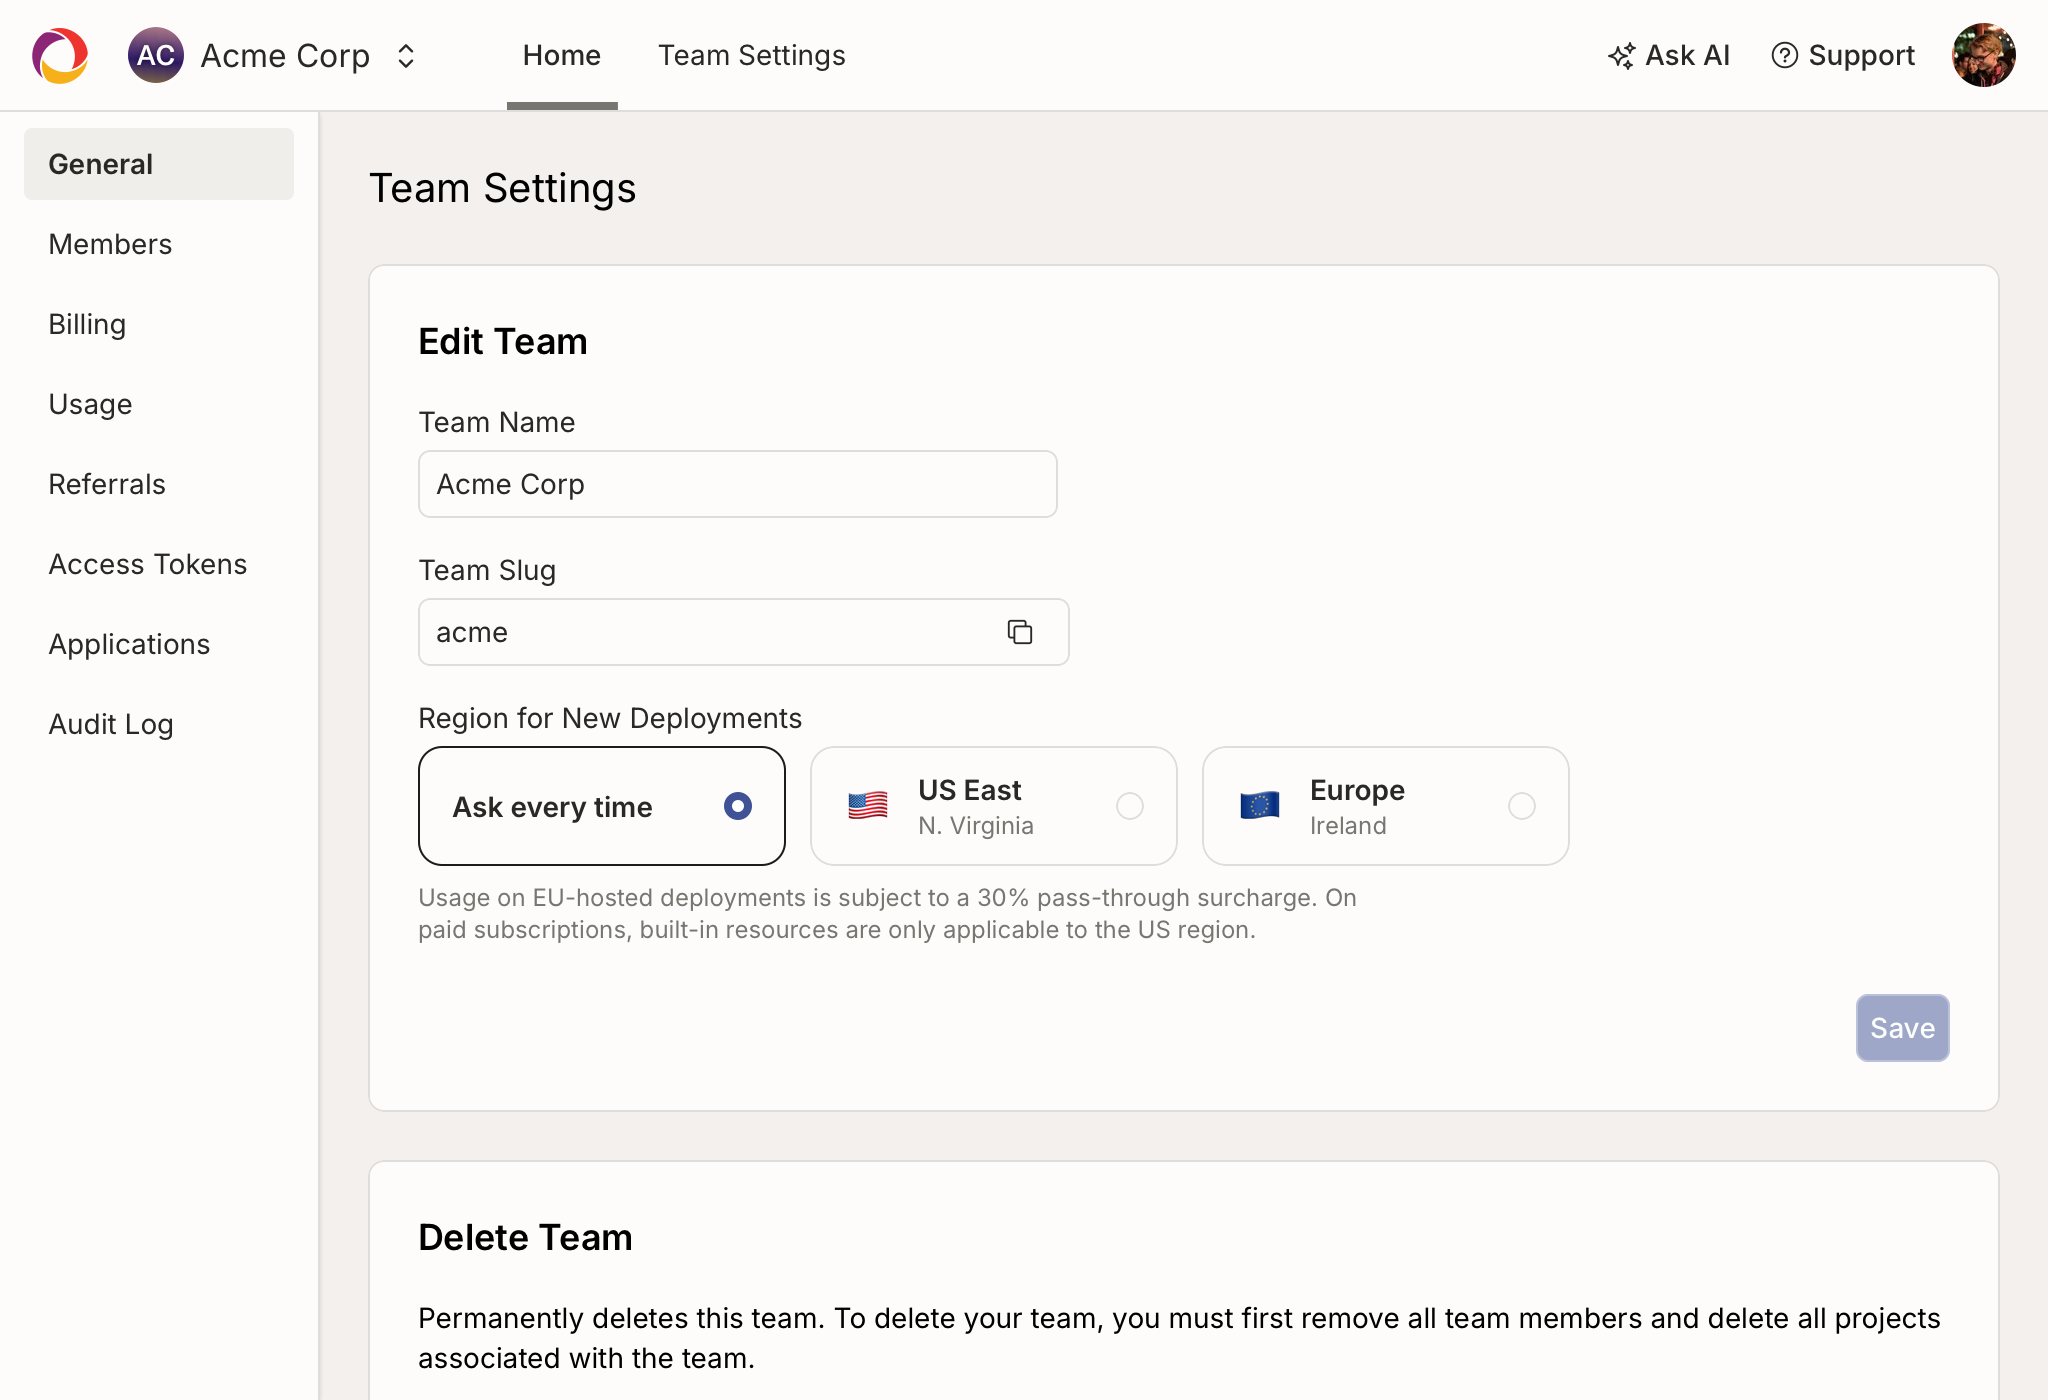
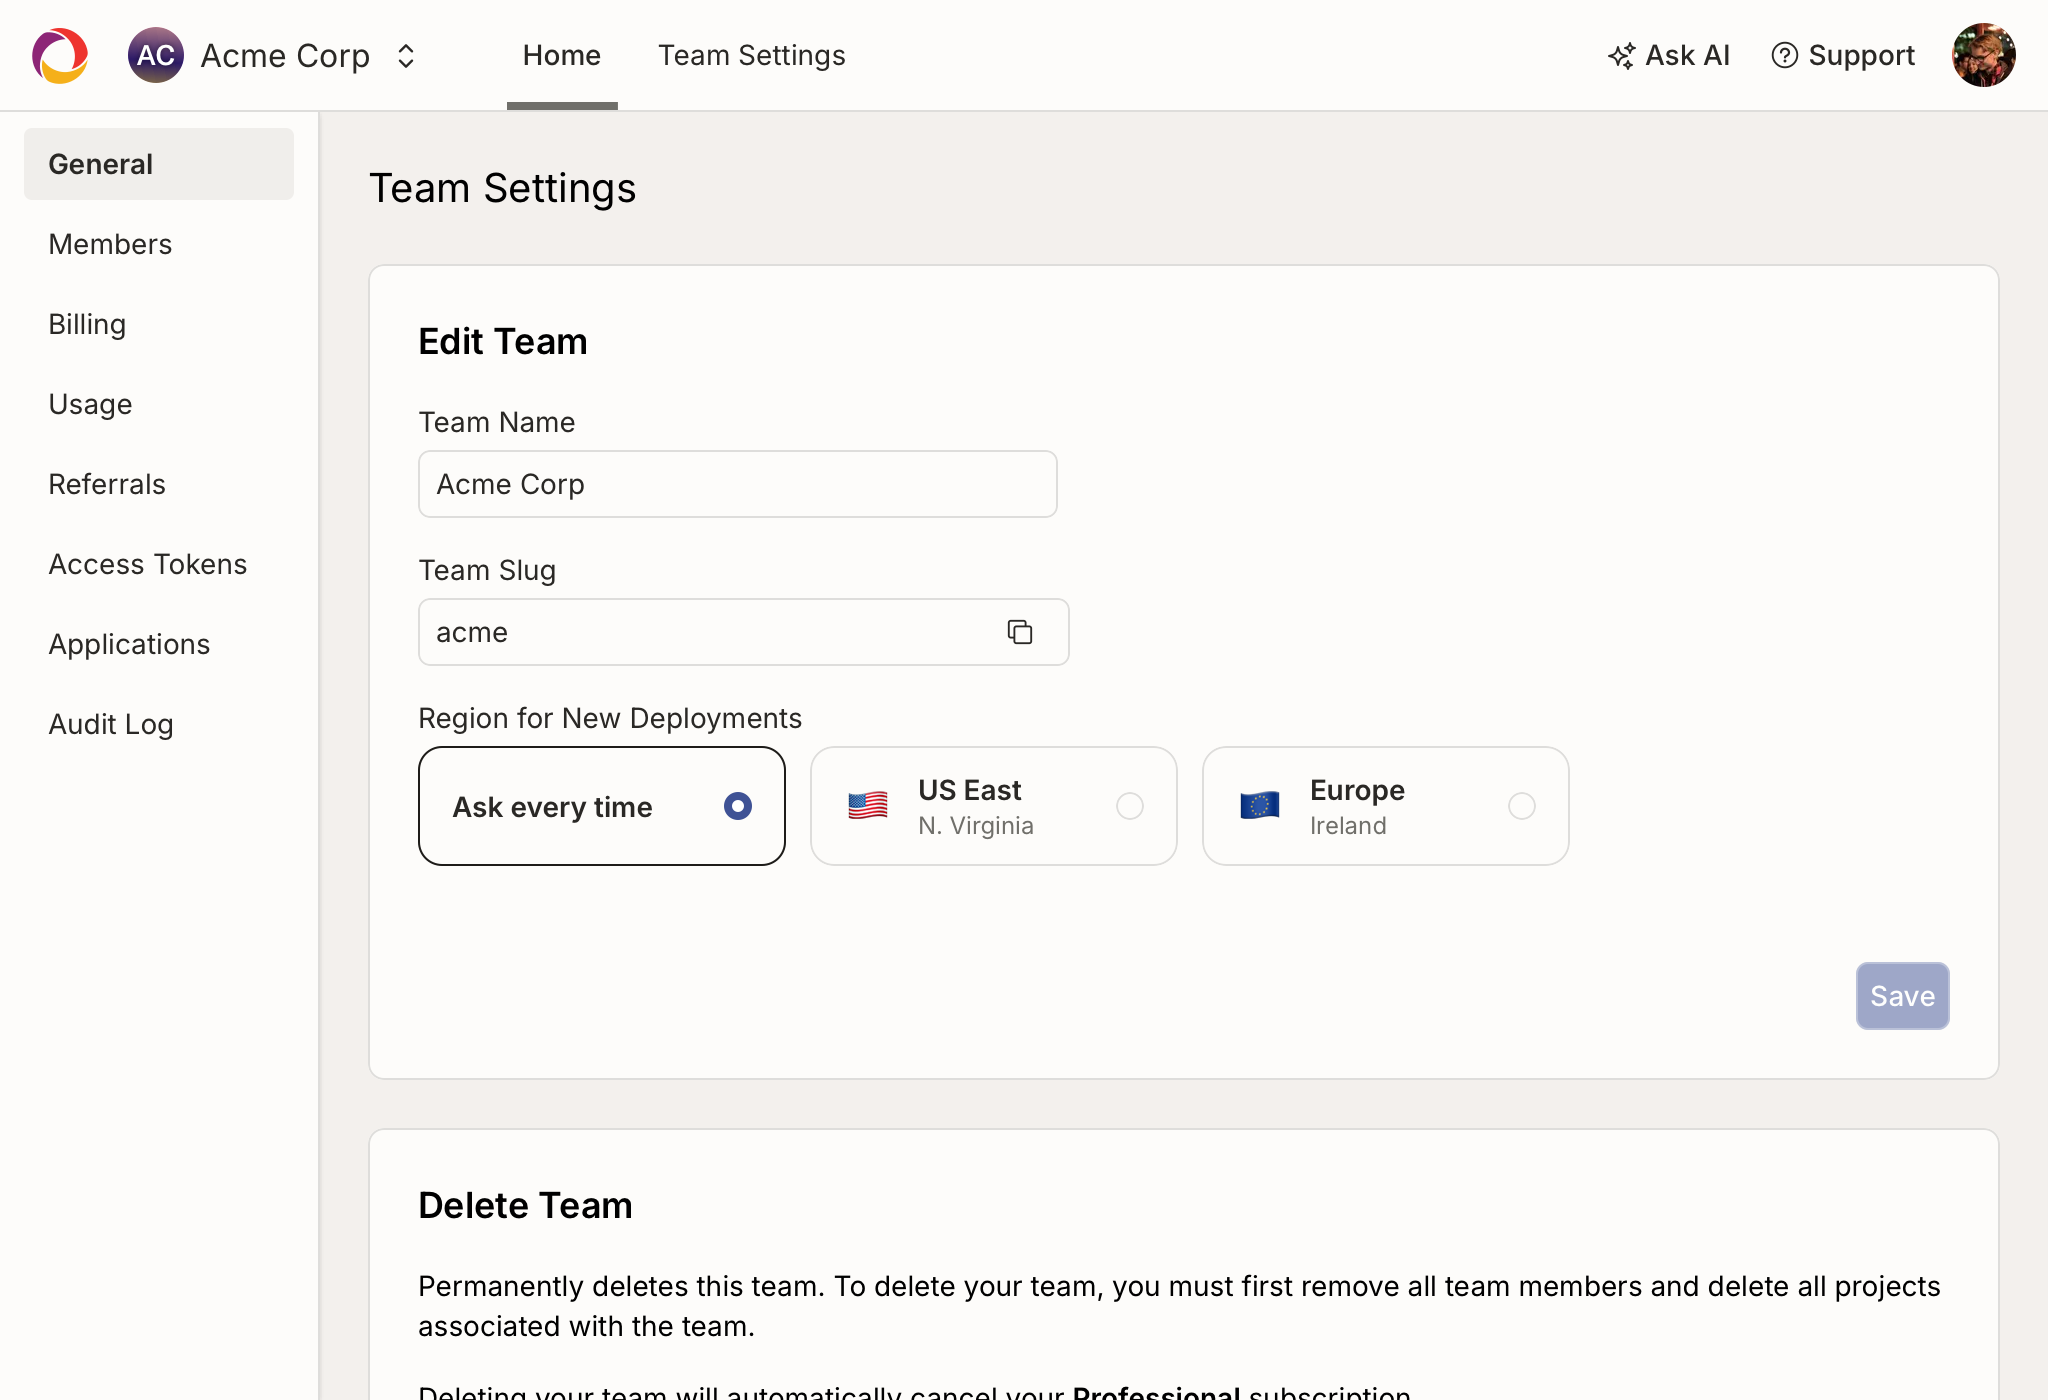
dashboard: fix duplicate EU pricing warning (#50595)
GitOrigin-RevId: 4fd7acfac6072beb7fa563899eb60af88031442c

Changed region(s): [[0.1875, 0.8293, 0.9375, 1.0], [0.2188, 0.6143, 0.625, 0.6757], [0.9062, 0.6757, 0.9688, 0.7679]]

diff --git a/npm-packages/dashboard/src/components/provisionDeployment/ProvisionDeploymentForm.tsx b/npm-packages/dashboard/src/components/provisionDeployment/ProvisionDeploymentForm.tsx
@@ -26,6 +26,7 @@ import { GlobeIcon } from "@radix-ui/react-icons";
 import { useIsomorphicLayoutEffect } from "react-use";
 import { Region, sortRegions } from "elements/Region";
 import { ProvisioningLoading } from "./ProvisioningLoading";
+import { EUPricingWarning } from "elements/EUPricingWarning";
 
 const REGION_COORDINATES: Record<RegionName, [number, number]> = {
   "aws-us-east-1": [38.9072, -77.0369], // Washington DC area (US East)
@@ -222,12 +223,7 @@ export function ProvisionDeploymentFormInner({
                       ))}
                 </div>
               </RadioGroup>
-              {selectedRegion && selectedRegion !== "aws-us-east-1" && (
-                <p className="mt-2 text-xs text-content-warning">
-                  No included limits — all usage billed on-demand + 30% regional
-                  surcharge
-                </p>
-              )}
+              <EUPricingWarning show={selectedRegion === "aws-eu-west-1"} />
             </Fieldset>
 
             <Tooltip
@@ -269,12 +265,6 @@ export function ProvisionDeploymentFormInner({
                 Create deployment
               </Button>
             </div>
-
-            <p className="text-xs text-content-secondary">
-              Usage on EU-hosted deployments is subject to a 30% pass-through
-              surcharge. On paid subscriptions, built-in resources are only
-              applicable to the US region.
-            </p>
           </form>
         </Sheet>
       </div>

diff --git a/npm-packages/dashboard/src/components/teamSettings/DefaultRegionSelector.tsx b/npm-packages/dashboard/src/components/teamSettings/DefaultRegionSelector.tsx
@@ -1,7 +1,11 @@
 import { useMemo } from "react";
 import { Fieldset, Legend, RadioGroup } from "@headlessui/react";
 import { Region, sortRegions } from "elements/Region";
-import { DeploymentRegionMetadata } from "@convex-dev/platform/managementApi";
+import {
+  DeploymentRegionMetadata,
+  RegionName,
+} from "@convex-dev/platform/managementApi";
+import { EUPricingWarning } from "elements/EUPricingWarning";
 
 export function DefaultRegionSelector({
   value,
@@ -10,8 +14,8 @@ export function DefaultRegionSelector({
   teamSlug,
   disabledDueToPermissions = false,
 }: {
-  value: string | null;
-  onChange: (region: string | null) => void;
+  value: RegionName | null;
+  onChange: (region: RegionName | null) => void;
   regions: DeploymentRegionMetadata[] | undefined;
   teamSlug: string | undefined;
   disabledDueToPermissions?: boolean;
@@ -56,11 +60,7 @@ export function DefaultRegionSelector({
           )}
         </div>
       </RadioGroup>
-      <p className="mt-2 max-w-prose text-xs text-content-secondary">
-        Usage on EU-hosted deployments is subject to a 30% pass-through
-        surcharge. On paid subscriptions, built-in resources are only applicable
-        to the US region.
-      </p>
+      <EUPricingWarning show={value === "aws-eu-west-1"} />
     </Fieldset>
   );
 }

diff --git a/npm-packages/dashboard/src/elements/EUPricingWarning.tsx b/npm-packages/dashboard/src/elements/EUPricingWarning.tsx
@@ -1,0 +1,18 @@
+import { cn } from "@ui/cn";
+
+export function EUPricingWarning({ show }: { show: boolean }) {
+  return (
+    <p
+      className={cn(
+        "mt-2 text-xs text-content-warning transition-opacity",
+        show ? "opacity-100" : "opacity-0 select-none",
+        // `relative` fixes a weird browser bug where Safari would sometimes ignore opacity-0
+        "relative",
+      )}
+      inert={!show}
+      aria-hidden={!show}
+    >
+      No included limits (all usage billed on-demand) + 30% regional surcharge
+    </p>
+  );
+}
